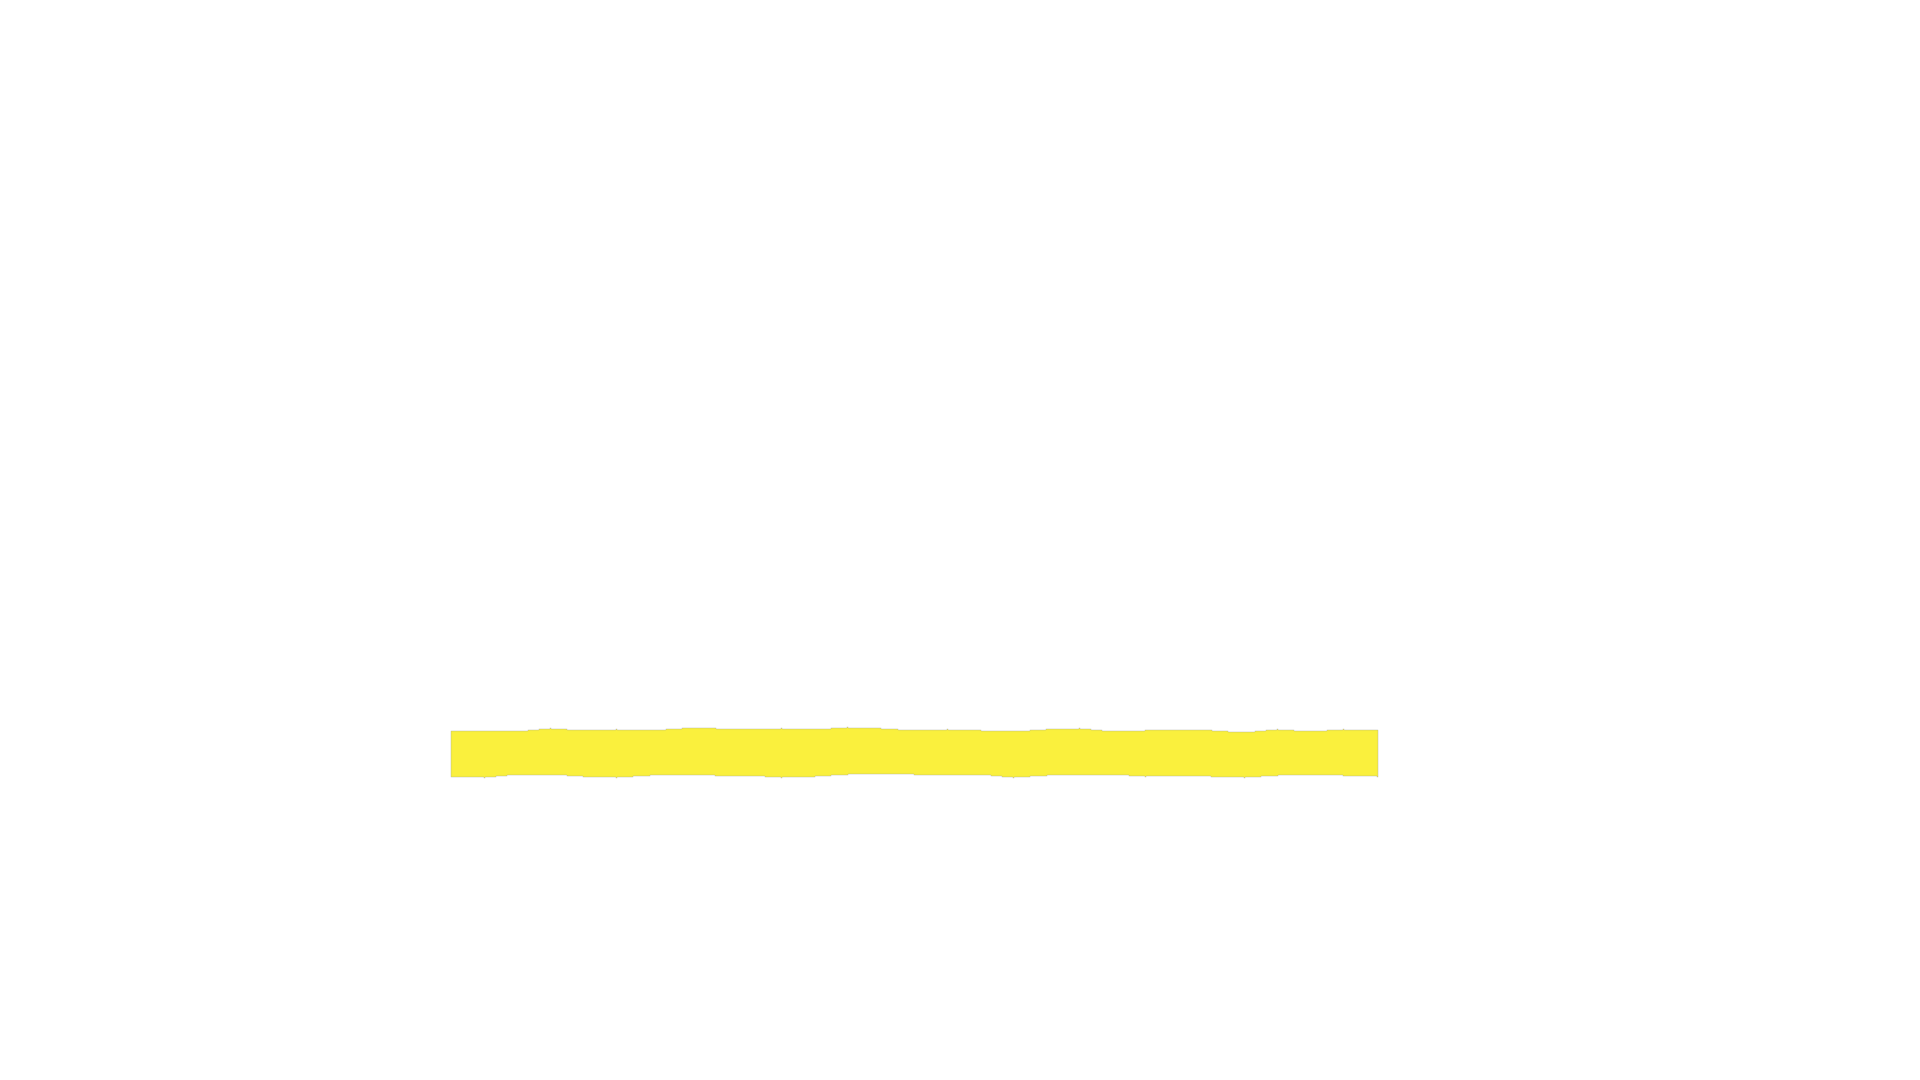
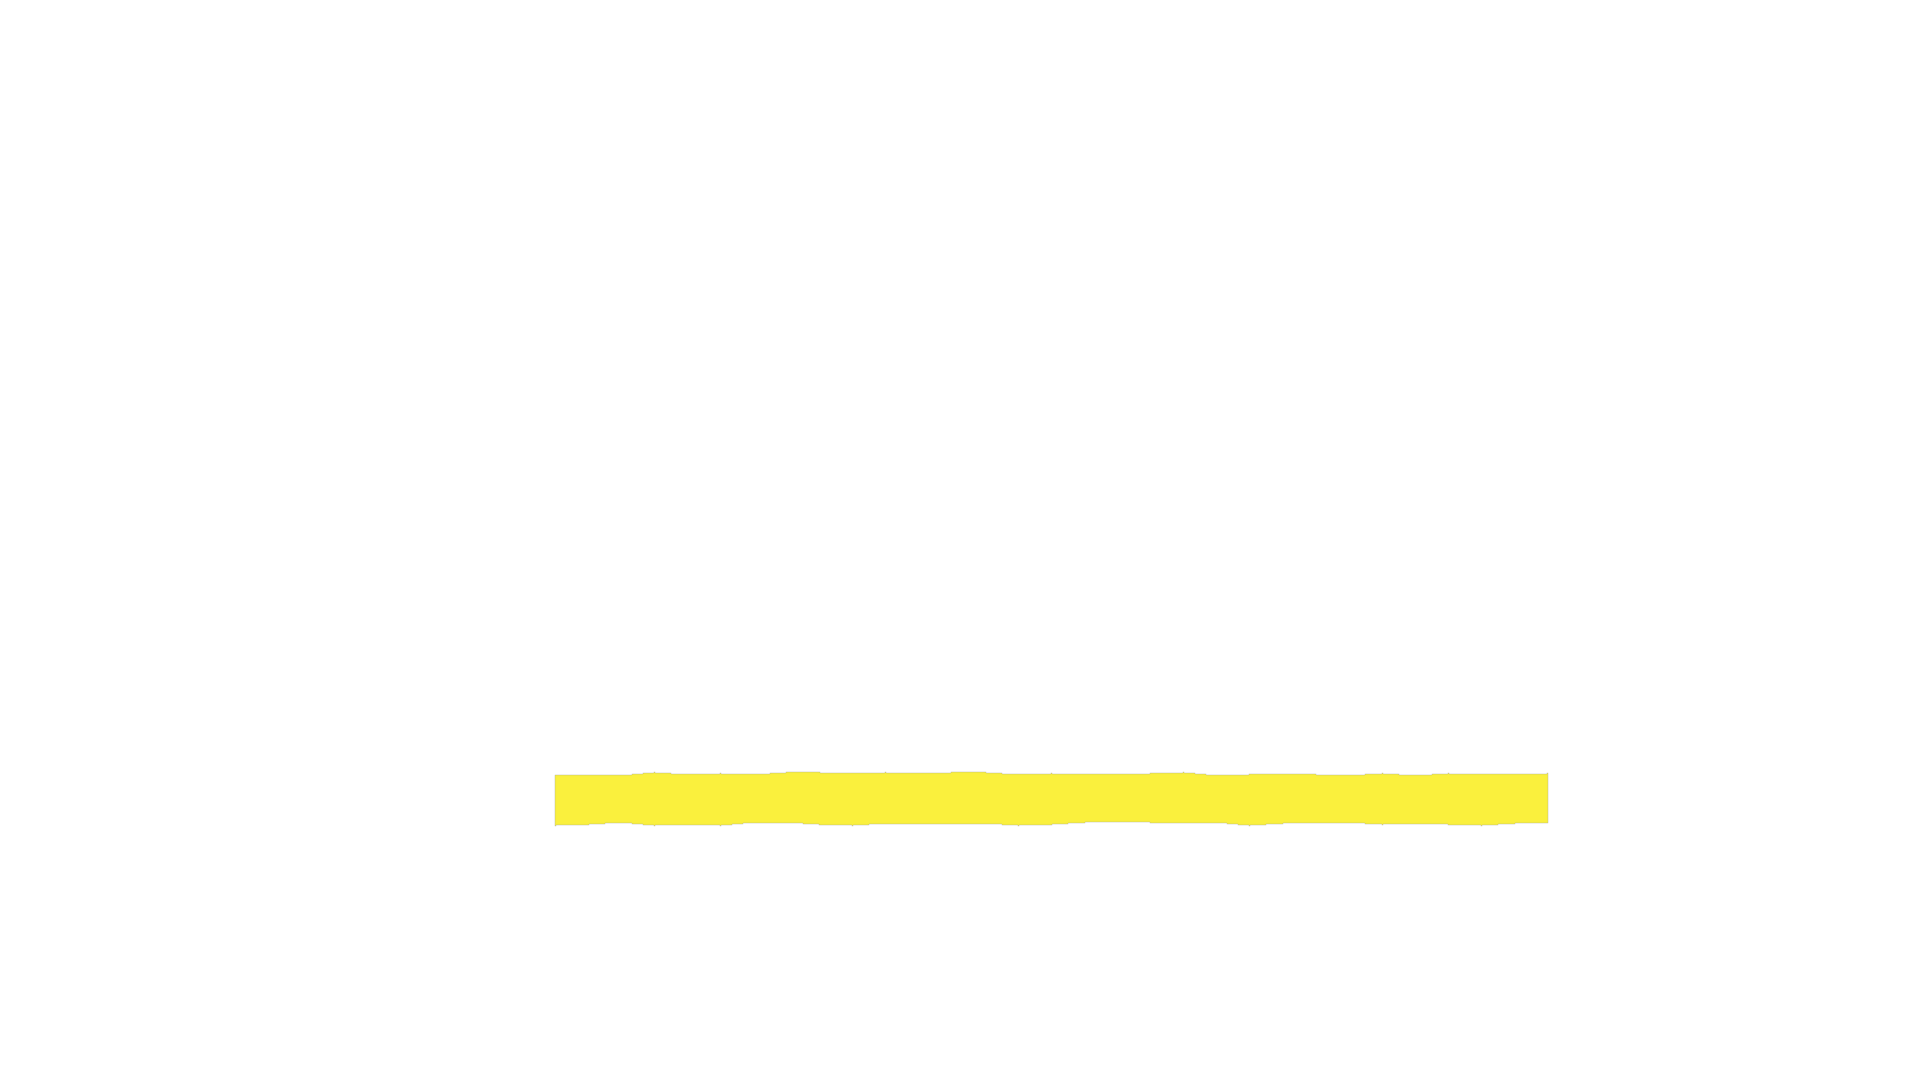
shot8: rebuild as layered open book with strong line light

Changed region(s): [[0.2188, 0.6722, 0.8125, 0.7639]]

diff --git a/src/LabSpotlightDoc.tsx b/src/LabSpotlightDoc.tsx
@@ -5,46 +5,45 @@ const clamp = {extrapolateLeft: 'clamp', extrapolateRight: 'clamp'} as const;
 
 export const LabSpotlightDoc: React.FC = () => {
   const frame = useCurrentFrame();
-  const zoom = interpolate(frame, [0, 299], [1.09, 1.115], clamp);
-  const dim = interpolate(frame, [20, 56], [0.18, 0.76], {...clamp, easing: Easing.bezier(0.4, 0, 0.2, 1)});
-  const spot = interpolate(frame, [26, 60], [0, 0.72], {...clamp, easing: Easing.bezier(0.4, 0, 0.2, 1)});
+  const zoom = interpolate(frame, [0, 299], [1, 1.015], clamp);
+  const dim = interpolate(frame, [20, 56], [0.22, 0.82], {...clamp, easing: Easing.bezier(0.4, 0, 0.2, 1)});
+  const spot = interpolate(frame, [26, 60], [0, 0.98], {...clamp, easing: Easing.bezier(0.4, 0, 0.2, 1)});
   const sweep = interpolate(frame, [72, 104], [0, 1], {...clamp, easing: Easing.bezier(0.45, 0, 0.2, 1)});
 
   // Geometry exported by build_lab8_document.py. The transparent content image
-  // contains only the yellow stroke and its original black ink, so the sweep
-  // preserves letters without a rectangular page overlay or blend-mode loss.
-  const clipLeft = 445;
-  const clipWidth = 950;
+  // contains only the yellow stroke and its original black ink.
+  const clipLeft = 548;
+  const clipWidth = 1010;
   const clipRight = 1920 - (clipLeft + clipWidth * sweep);
-  const highlightClip = `inset(724px ${clipRight}px 296px ${clipLeft}px)`;
+  const highlightClip = `inset(768px ${clipRight}px 244px ${clipLeft}px)`;
   const pageTransform = `scale(${zoom})`;
 
   return (
     <AbsoluteFill style={{backgroundColor: '#020303', overflow: 'hidden'}}>
-      <AbsoluteFill style={{transform: pageTransform, transformOrigin: '52% 68%'}}>
+      <AbsoluteFill style={{transform: pageTransform, transformOrigin: '55% 74%'}}>
         <Img src={staticFile('lab8-document-clean.webp')} style={{position: 'absolute', left: 0, top: 0, width: 1920, height: 1080}} />
       </AbsoluteFill>
 
       <AbsoluteFill
         style={{
-          background: 'radial-gradient(ellipse 850px 390px at 52% 68%, rgba(0,0,0,0) 0%, rgba(0,0,0,.05) 44%, rgba(0,0,0,.64) 100%)',
+          background: 'radial-gradient(ellipse 900px 370px at 55% 74%, rgba(0,0,0,0) 0%, rgba(0,0,0,.07) 42%, rgba(0,0,0,.72) 100%)',
           opacity: dim,
         }}
       />
-      <AbsoluteFill style={{backgroundColor: '#000', opacity: dim * 0.09}} />
+      <AbsoluteFill style={{backgroundColor: '#000', opacity: dim * 0.10}} />
 
-      {/* Keep the yellow above the dimming layer, as in the bright reference,
-          but below the soft spotlight so it still belongs to the same light. */}
-      <AbsoluteFill style={{transform: pageTransform, transformOrigin: '52% 68%'}}>
-        <Img src={staticFile('lab8-highlight-content.png')} style={{position: 'absolute', left: 0, top: 0, width: 1920, height: 1080, clipPath: highlightClip}} />
-      </AbsoluteFill>
+      {/* Strong, compact light isolates the exact target line before the yellow
+          appears. Keeping it below the highlight preserves the printed ink. */}
       <AbsoluteFill
         style={{
-          background: 'radial-gradient(ellipse 700px 280px at 52% 68%, rgba(255,255,255,.28) 0%, rgba(255,255,255,.11) 46%, rgba(255,255,255,0) 78%)',
+          background: 'radial-gradient(ellipse 650px 105px at 55% 74%, rgba(255,255,255,.78) 0%, rgba(255,255,255,.42) 45%, rgba(255,255,255,0) 80%)',
           mixBlendMode: 'screen',
           opacity: spot,
         }}
       />
+      <AbsoluteFill style={{transform: pageTransform, transformOrigin: '55% 74%'}}>
+        <Img src={staticFile('lab8-highlight-content.png')} style={{position: 'absolute', left: 0, top: 0, width: 1920, height: 1080, clipPath: highlightClip}} />
+      </AbsoluteFill>
     </AbsoluteFill>
   );
 };

diff --git a/scripts/build_lab8_document.py b/scripts/build_lab8_document.py
@@ -1,114 +1,93 @@
 from pathlib import Path
 import random
-from PIL import Image, ImageDraw, ImageEnhance, ImageFilter, ImageFont
+from PIL import Image, ImageDraw, ImageFilter, ImageFont
 
 ROOT = Path(__file__).resolve().parents[1]
 PUBLIC = ROOT / 'public'
 W, H = 1920, 1080
 SERIF = '/usr/share/fonts/truetype/dejavu/DejaVuSerif.ttf'
 SERIF_BOLD = '/usr/share/fonts/truetype/dejavu/DejaVuSerif-Bold.ttf'
-MONT = str(ROOT / 'fonts' / 'Montserrat-SemiBold.ttf')
-MONT_BOLD = str(ROOT / 'fonts' / 'Montserrat-ExtraBold.ttf')
 SANS = '/usr/share/fonts/truetype/dejavu/DejaVuSans.ttf'
-SANS_BOLD = '/usr/share/fonts/truetype/dejavu/DejaVuSans-Bold.ttf'
 
-source = Image.open(PUBLIC / 'lab8-paper-source.png').convert('RGB')
-# Use the generated blank report only as real-looking paper texture. All data and
-# typography are original and are added below from the verified MIC figures.
-right_texture = source.crop((440, 85, 1135, 690)).resize((1120, 1140), Image.Resampling.LANCZOS)
-right_texture = ImageEnhance.Brightness(right_texture).enhance(0.86)
-right_texture = ImageEnhance.Contrast(right_texture).enhance(0.92)
-left_texture = source.crop((230, 80, 390, 690)).resize((260, 940), Image.Resampling.LANCZOS)
-left_texture = ImageEnhance.Brightness(left_texture).enhance(0.27)
+# AI reference-guided open book: dark printed page behind + a real-looking loose
+# sheet on top. Crop to 16:9 while preserving the reference's close framing.
+book = Image.open(PUBLIC / 'lab8-book-layers.png').convert('RGB')
+book = book.crop((150, 0, 1373, 688)).resize((W, H), Image.Resampling.LANCZOS)
+canvas = book.convert('RGBA')
 
-canvas = Image.new('RGB', (W, H), '#030405')
-# Soft contact shadows keep the document photographic rather than a flat card.
-shadow = Image.new('RGBA', (W, H), (0, 0, 0, 0))
-sd = ImageDraw.Draw(shadow)
-sd.rectangle((345, 4, 1490, 1110), fill=(0, 0, 0, 210))
-sd.rectangle((145, 100, 420, 1040), fill=(0, 0, 0, 190))
-shadow = shadow.filter(ImageFilter.GaussianBlur(28))
-canvas = Image.alpha_composite(canvas.convert('RGBA'), shadow)
-canvas.paste(left_texture, (150, 95))
-canvas.paste(right_texture, (360, -30))
-
-ink = (22, 25, 25, 255)
-muted = (66, 68, 66, 255)
-grid = (115, 116, 109, 150)
+ink = (25, 27, 26, 255)
+muted = (68, 70, 67, 255)
+grid = (112, 113, 107, 145)
 red = (121, 35, 46, 255)
 slate = (59, 88, 98, 255)
 
-f_header = ImageFont.truetype(SANS, 16)
-f_chart = ImageFont.truetype(SERIF_BOLD, 23)
-f_small = ImageFont.truetype(SANS, 16)
-f_value = ImageFont.truetype(SERIF_BOLD, 20)
-f_serif = ImageFont.truetype(SERIF, 20)
-f_body = ImageFont.truetype(SERIF, 28)
-f_body_bold = ImageFont.truetype(SERIF_BOLD, 28)
+f_chart = ImageFont.truetype(SERIF_BOLD, 25)
+f_small = ImageFont.truetype(SANS, 17)
+f_value = ImageFont.truetype(SERIF_BOLD, 21)
+f_source = ImageFont.truetype(SERIF, 21)
+f_body = ImageFont.truetype(SERIF, 30)
 
-# Header and original data chart.
-canvas_draw = ImageDraw.Draw(canvas)
-canvas_draw.text((460, 92), 'Figure 1. Japan’s vacant homes by category, 2023', font=f_chart, fill=ink)
+d = ImageDraw.Draw(canvas)
+d.text((565, 110), 'Figure 1. Japan’s vacant homes by category, 2023', font=f_chart, fill=ink)
 
-chart_x, chart_y, chart_w, chart_h = 510, 150, 830, 225
+chart_x, chart_y, chart_w, chart_h = 620, 165, 1010, 235
 for tick in range(6):
     y = chart_y + chart_h - tick * chart_h / 5
-    canvas_draw.line((chart_x, y, chart_x + chart_w, y), fill=grid, width=1)
-    canvas_draw.text((chart_x - 48, y - 10), f'{tick}M', font=f_small, fill=muted)
-canvas_draw.line((chart_x, chart_y + chart_h, chart_x + chart_w, chart_y + chart_h), fill=muted, width=2)
+    d.line((chart_x, y, chart_x + chart_w, y), fill=grid, width=1)
+    d.text((chart_x - 52, y - 10), f'{tick}M', font=f_small, fill=muted)
+d.line((chart_x, chart_y + chart_h, chart_x + chart_w, chart_y + chart_h), fill=muted, width=2)
 
 values = [4.436, 3.856, 0.384, 0.326]
 labels = ['RENTAL', 'OTHER /\nABANDONED', 'SECOND\nHOMES', 'FOR SALE']
 colors = [red, slate, (106, 77, 91, 255), (83, 102, 91, 255)]
-bar_w = 88
+bar_w = 105
 for i, (value, label, color) in enumerate(zip(values, labels, colors)):
-    x = chart_x + 48 + i * 198
+    x = chart_x + 62 + i * 238
     height = value / 5 * chart_h
-    y = chart_y + chart_h - height
     bar_h = max(2, int(round(height)))
+    y = int(chart_y + chart_h - bar_h)
     bar = Image.new('RGBA', (bar_w, bar_h), color)
     bd = ImageDraw.Draw(bar)
-    # Fine diagonal hatch is clipped to the bar itself, like a printed chart.
-    for k in range(-bar_h, bar_w + bar_h, 22):
-        bd.line((k, bar_h, k + bar_h, 0), fill=(230, 230, 220, 42), width=1)
+    for k in range(-bar_h, bar_w + bar_h, 24):
+        bd.line((k, bar_h, k + bar_h, 0), fill=(230, 230, 220, 38), width=1)
     bd.rectangle((0, 0, bar_w - 1, bar_h - 1), outline=(45, 48, 47, 255), width=2)
-    canvas.paste(bar, (int(x), int(chart_y + chart_h - bar_h)), bar)
-    canvas_draw = ImageDraw.Draw(canvas)
+    canvas.paste(bar, (int(x), y), bar)
+    d = ImageDraw.Draw(canvas)
     value_text = f'{value:.3f}M'
-    tw = canvas_draw.textlength(value_text, font=f_value)
-    canvas_draw.text((x + (bar_w - tw) / 2, y - 28), value_text, font=f_value, fill=ink)
+    tw = d.textlength(value_text, font=f_value)
+    d.text((x + (bar_w - tw) / 2, y - 29), value_text, font=f_value, fill=ink)
     for j, line in enumerate(label.split('\n')):
-        tw = canvas_draw.textlength(line, font=f_small)
-        canvas_draw.text((x + (bar_w - tw) / 2, chart_y + chart_h + 12 + j * 21), line, font=f_small, fill=ink)
+        tw = d.textlength(line, font=f_small)
+        d.text((x + (bar_w - tw) / 2, chart_y + chart_h + 12 + j * 21), line, font=f_small, fill=ink)
 
-canvas_draw.text((510, 432), 'Source: MIC Statistics Bureau, Housing and Land Survey, 2023.', font=f_serif, fill=ink)
-canvas_draw.text((510, 466), 'Values in millions. Vacant does not necessarily mean abandoned.', font=f_small, fill=muted)
+d = ImageDraw.Draw(canvas)
+d.text((620, 468), 'Source: MIC Statistics Bureau, Housing and Land Survey, 2023.', font=f_source, fill=ink)
+d.text((620, 502), 'Values in millions. Vacant does not necessarily mean abandoned.', font=f_small, fill=muted)
 
 lines = [
     'Japan counted 9.002 million vacant homes in 2023.',
     'Vacant does not mean abandoned: 4.436 million were rentals.',
     'Another 3.856 million were classified as other or abandoned.',
 ]
-text_x = 460
+text_x = 565
 for i, line in enumerate(lines):
-    canvas_draw.text((text_x, 555 + i * 58), line, font=f_body, fill=ink)
+    d.text((text_x, 580 + i * 64), line, font=f_body, fill=ink)
 
 target = 'Tokyo had 898,000 vacant homes — 10.9% of its housing stock.'
-target_y = 735
-target_w = canvas_draw.textlength(target, font=f_body)
-# Exported for the Remotion sweep; keep these values synchronized with TSX.
-print(f'TARGET_X={text_x};TARGET_Y={target_y};TARGET_W={target_w:.2f};TARGET_H=44')
-
+target_y = 780
+target_w = d.textlength(target, font=f_body)
+print(f'TARGET_X={text_x};TARGET_Y={target_y};TARGET_W={target_w:.2f};TARGET_H=48')
 
 stroke = Image.new('RGBA', (W, H), (0, 0, 0, 0))
 od = ImageDraw.Draw(stroke)
 rnd = random.Random(23)
-x0, x1 = text_x - 9, text_x + target_w + 15
-y0, y1 = target_y - 5, target_y + 41
-top = [(x0 + (x1 - x0) * i / 28, y0 + rnd.uniform(-2.2, 2.2)) for i in range(29)]
-bottom = [(x0 + (x1 - x0) * i / 28, y1 + rnd.uniform(-2.4, 2.4)) for i in reversed(range(29))]
+x0, x1 = text_x - 10, text_x + target_w + 16
+y0, y1 = target_y - 6, target_y + 44
+top = [(x0 + (x1 - x0) * i / 30, y0 + rnd.uniform(-2.1, 2.1)) for i in range(31)]
+bottom = [(x0 + (x1 - x0) * i / 30, y1 + rnd.uniform(-2.3, 2.3)) for i in reversed(range(31))]
 od.polygon(top + bottom, fill=(249, 237, 20, 210))
 stroke = stroke.filter(ImageFilter.GaussianBlur(0.45))
+# Keep a clean but slightly irregular highlighter edge, matching a printed page.
 stroke.save(PUBLIC / 'lab8-highlight-stroke.png')
 
 
@@ -116,17 +95,14 @@ def make_image(highlighted: bool) -> Image.Image:
     im = canvas.copy()
     if highlighted:
         im = Image.alpha_composite(im, stroke)
-    d = ImageDraw.Draw(im)
-    d.text((text_x, target_y), target, font=f_body, fill=ink)
+    dd = ImageDraw.Draw(im)
+    dd.text((text_x, target_y), target, font=f_body, fill=ink)
     return im
 
 clean = make_image(False)
 highlighted = make_image(True)
 clean.convert('RGB').save(PUBLIC / 'lab8-document-clean.webp', lossless=True, quality=100)
 highlighted.convert('RGB').save(PUBLIC / 'lab8-document-highlight.webp', lossless=True, quality=100)
-# Only the yellow stroke and the printed ink inside it are exposed to Remotion.
-# Everything outside the stroke is transparent, so no rectangular page overlay
-# can appear and no blend mode can wash out the letters.
 content = highlighted.convert('RGBA')
 content.putalpha(stroke.getchannel('A'))
 content.save(PUBLIC / 'lab8-highlight-content.png')

diff --git a/shot8-licenses.md b/shot8-licenses.md
@@ -22,7 +22,7 @@ The distinction between vacant and abandoned is stated on the page to avoid misl
 
 ## Image and font assets
 
-- `lab8-paper-source.png`: AI-generated blank, smooth professional report texture created for this shot; it contains no third-party text or logos.
+- `lab8-book-layers.png`: AI-generated reference-guided open book with a dark printed page behind and a separate realistic loose sheet on top; the top sheet is blank before the original data is added.
 - `lab8-document-clean.webp` and `lab8-document-highlight.webp`: original composites generated by `scripts/build_lab8_document.py` for layout inspection.
 - `lab8-highlight-stroke.png`: transparent stroke geometry used to build the final overlay.
 - `lab8-highlight-content.png`: transparent overlay containing only the yellow stroke and its original black ink; Remotion reveals it left-to-right without blend-mode loss or a rectangular page overlay.
@@ -30,6 +30,6 @@ The distinction between vacant and abandoned is stated on the page to avoid misl
 
 ## Animation scope
 
-A silent 10-second Remotion composition. The framing starts about 9% closer and pushes in gently to 11.5%. Surroundings dim, a feathered spotlight stays on the target paragraph, then the transparent yellow stroke is revealed left-to-right in frames 72–104 and remains visible. No tearing, floating cards, platform logos, camera shake or production-video integration.
+A silent 10-second Remotion composition. The reference-guided book is cropped to a close 16:9 framing with only a 1.5% push-in. Surroundings dim, then a strong compact spotlight isolates the exact target line. The transparent yellow-and-ink content is revealed left-to-right in frames 72–104 after the light and remains visible. No tearing, floating cards, platform logos, camera shake or production-video integration.
 
 The user explicitly permits choosing different verified data or different data-graphic elements for each future production. The values in this sample are not mandatory fixed content for later uses.
